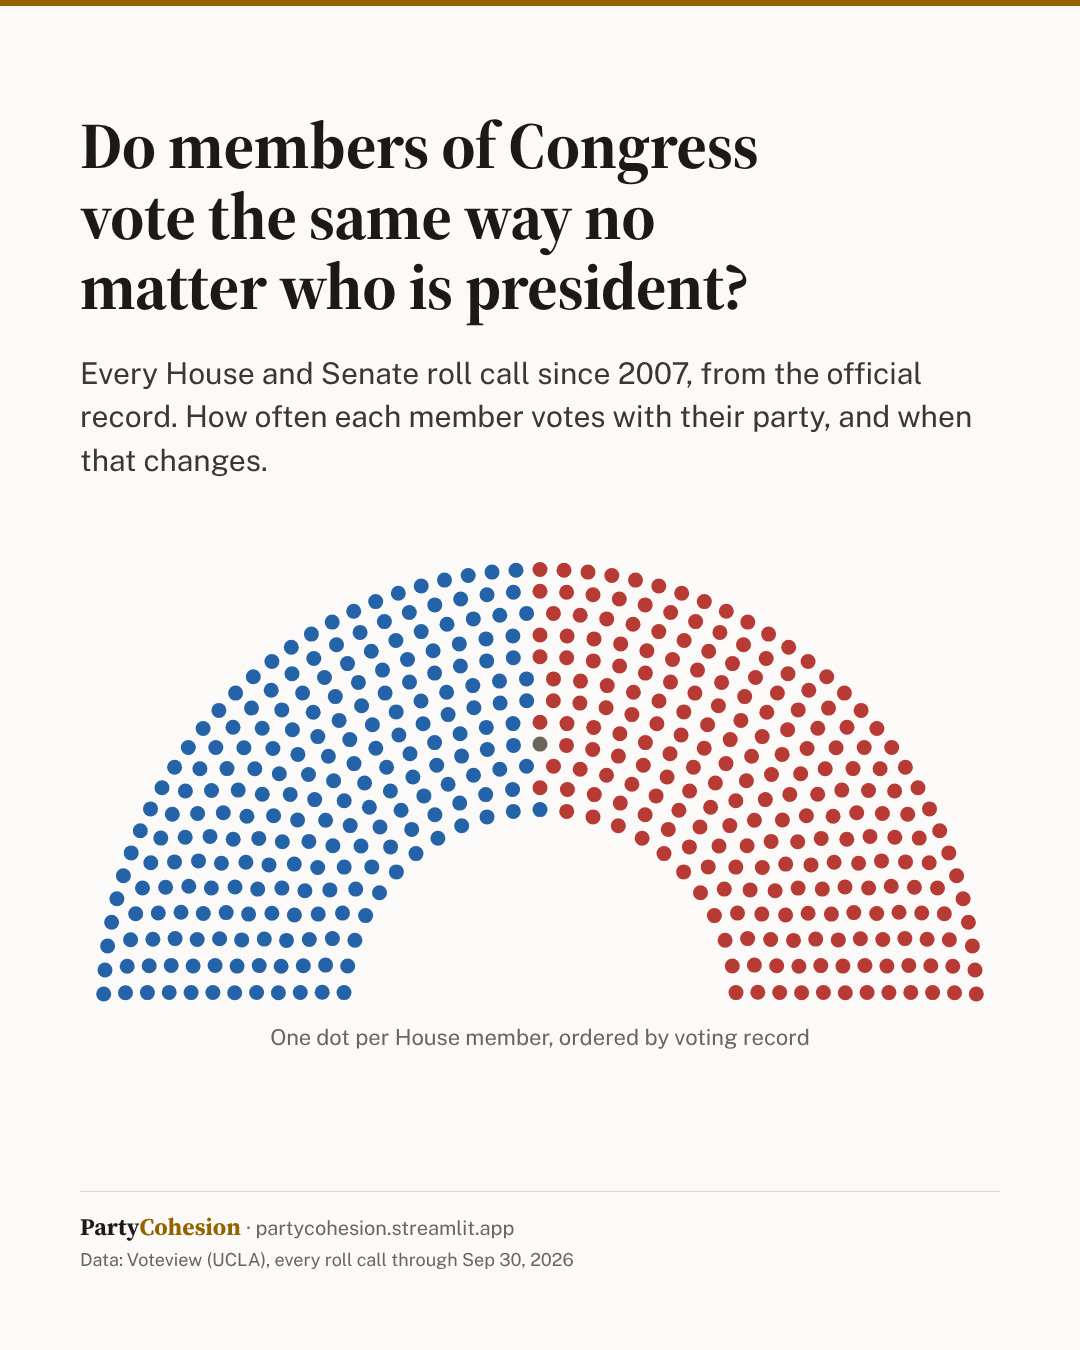
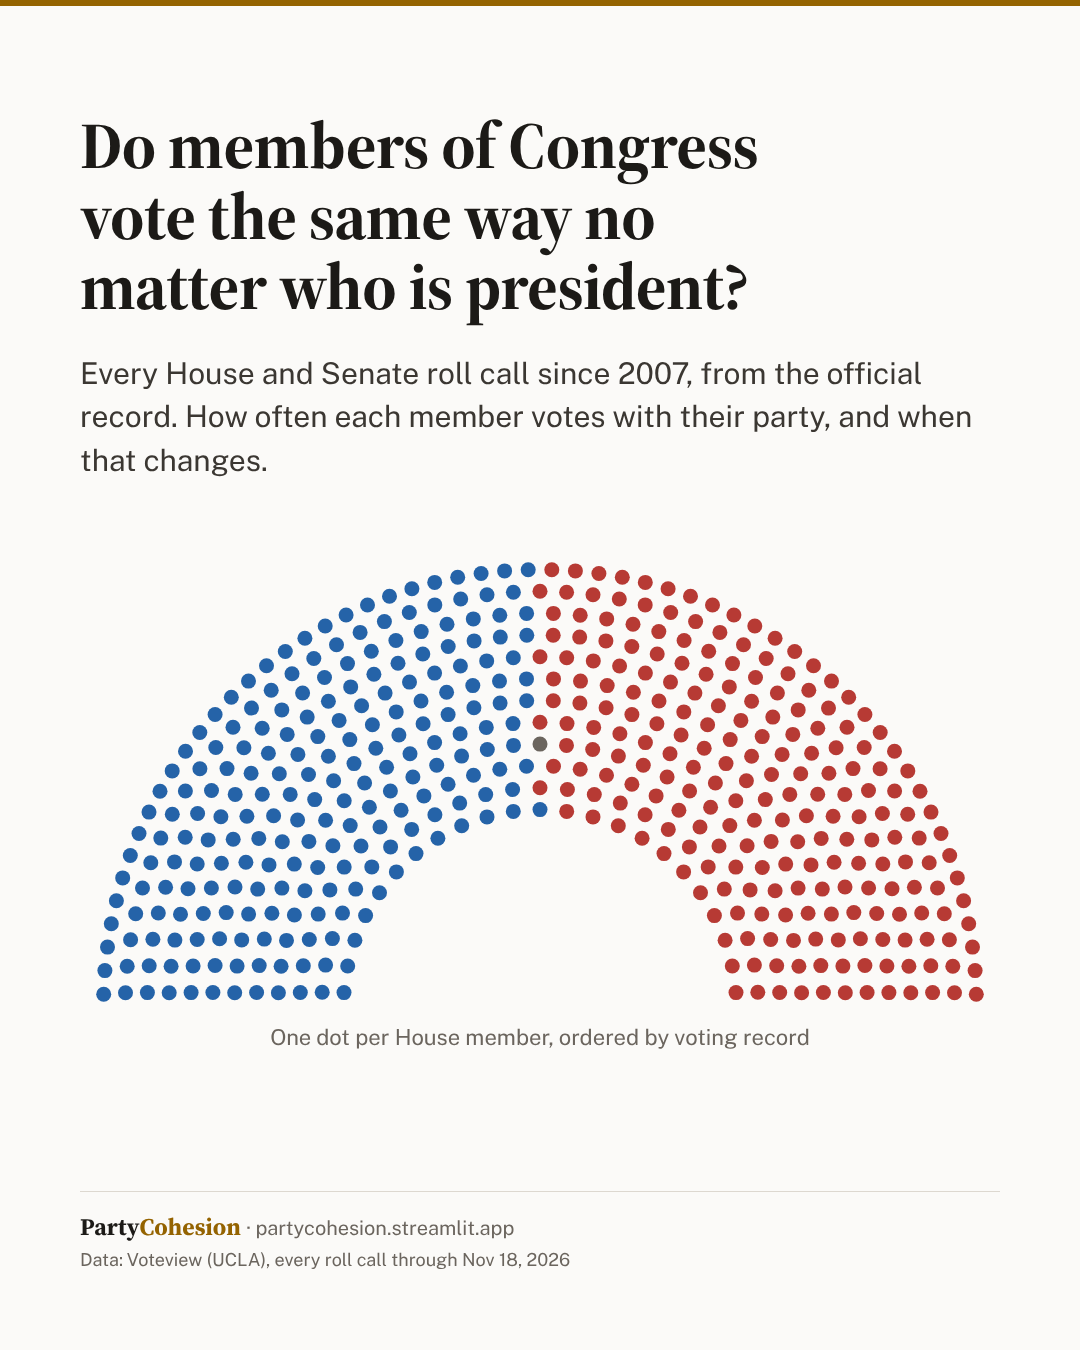
Fresh share cards, visible expander outlines, roomier phone charts
- Share card images rebuilt from the current data (through Nov 18, 2026); the share pages already had the new
  styles.
- Expanders get the control gray outline (3.2:1 light, 3.9:1 dark, was 1.3:1 and 1.5:1) and 10px corners.
- Phone charts: side margins of 10px unless a chart sets its own (Plotly's default 80px left a third of the
  screen), titles at 15px wrapped at 32 characters so they fit at 320px, Position Flips bar labels level and hidden
  when a segment is too thin, and the party unity line leaves a gap for a Congress with no scored votes.

diff --git a/static/pc.css b/static/pc.css
@@ -53,6 +53,9 @@
 .pc-table th { color: var(--pc-muted); font-size: 0.85rem; font-weight: 600; text-align: left; padding: 12px 16px; }
 .pc-table td { padding: 12px 16px; border-top: 1px solid var(--pc-border); }
 .pc-muted, .pc-table td.pc-muted { color: var(--pc-muted); }
+/* Expanders: the control gray outline (3:1 or better) instead of the faint divider color, on the 10px card corner */
+.stApp [data-testid="stExpander"] details { border-color: var(--pc-control); border-radius: 10px; }
+.stApp [data-testid="stExpander"] summary { border-radius: 10px; }
 .pc-notice { color: var(--pc-body); padding: 0;
              margin: 0.25rem 0 1rem; max-width: 72ch; }
 /* How they voted lately: a short list with the vote word in a chip. Yea is filled, Nay is outlined, a missed vote is

diff --git a/chart_utils.py b/chart_utils.py
@@ -89,7 +89,7 @@ def _recolor(obj) -> None:
             _recolor(child)
 
 
-TITLE_CHARS = 34  # about what fits across a 320px-wide phone chart at the title size
+TITLE_CHARS = 32  # about what fits across a 320px-wide phone chart at the phone title size (15px)
 
 
 def wrap_title(title: str, width: int = TITLE_CHARS) -> tuple[str, int]:
@@ -112,7 +112,13 @@ def show_chart(fig, title: str, filename: str, key: str | None = None, on_select
                 _recolor(item)
     _label_ink(fig)
     from theme import narrow
-    text, lines = wrap_title(title, TITLE_CHARS if narrow() else 90)
+    phone = narrow()
+    text, lines = wrap_title(title, TITLE_CHARS if phone else 90)
+    if phone:
+        # Plotly's default 80px side margins leave a phone chart a third of the screen; the axes size themselves
+        # (automargin), so a chart that didn't set its own sides gets 10px
+        m = fig.layout.margin
+        fig.update_layout(margin=dict(l=10 if m.l is None else m.l, r=10 if m.r is None else m.r))
     top = max(fig.layout.margin.t or 0, 80) + 21 * (lines - 1)
     # Legends sit in a row of their own above the plot (beside it squeezes phone-width charts), unless a page
     # already placed one below the plot.
@@ -128,7 +134,7 @@ def show_chart(fig, title: str, filename: str, key: str | None = None, on_select
                                       y=1 + (24 / plot_h if facet_labels else 0), entrywidth=0))
     fig.update_layout(
         title=dict(text=text, x=0.01, xanchor="left", yref="container", y=1, yanchor="top", pad=dict(t=14),
-                   font=dict(size=16, color=t["text"])),
+                   font=dict(size=15 if phone else 16, color=t["text"])),
         paper_bgcolor=t["bg"],
         plot_bgcolor=t["bg"],
         font=dict(color=t["text"], family=FONT),

diff --git a/views/7_Position_Flips.py b/views/7_Position_Flips.py
@@ -162,8 +162,11 @@ else:
                  category_orders={"label": LABEL_ORDER, "party": ["Democrat", "Republican"]},
                  color_discrete_map=LABEL_COLORS, labels={"party": "", "Share": "Share of members (%)", "label": ""},
                  hover_data={"Members": True, "Share": ":.0f"})
+    # Labels stay level and inside their segment; a segment too thin for one hides it (the hover still has it)
+    fig.update_traces(textangle=0, textposition="inside", insidetextanchor="middle")
     fig.update_layout(height=280, barmode="stack", xaxis=dict(range=[0, 100], title=None, ticksuffix="%"),
-                      legend=dict(orientation="h", y=-0.22, x=0), margin=dict(b=70))
+                      legend=dict(orientation="h", y=-0.22, x=0), margin=dict(b=70),
+                      uniformtext=dict(minsize=11, mode="hide"))
     show_chart(fig, f"Position consistency, {category.lower()}", f"position_flips_{category.lower().replace(' ', '_')}")
 
     st.caption("Read this chart as a summary of members, not a verdict on either party: votes are not spread evenly "

diff --git a/views/2_Member_Explorer.py b/views/2_Member_Explorer.py
@@ -625,6 +625,11 @@ if pick:
         avg = (df[df["caucus"] == compare_party].groupby(["congress", "chamber"])["party_unity_pct"].mean()
                .reset_index().rename(columns={"party_unity_pct": "party_avg"}))
         hist = scored.merge(avg, on=["congress", "chamber"], how="left")
+        # A Congress with no scored votes (a delegate in a Congress whose rules shut them out) is a gap in the line,
+        # not a straight segment that reads as a trend across it
+        hist = (hist.drop_duplicates("congress", keep="last").set_index("congress")
+                .reindex(range(int(hist["congress"].min()), int(hist["congress"].max()) + 1)).rename_axis("congress")
+                .reset_index())
         fig_h = px.line(hist, x="congress", y=["party_unity_pct", "party_avg"], markers=True,
                         labels={"congress": "Congress", "value": "Party Unity %", "variable": ""},
                         color_discrete_sequence=[ACCENT, MUTED])

diff --git a/ui.py b/ui.py
@@ -89,6 +89,9 @@ CSS = f"""
 .pc-table th {{ color: var(--pc-muted); font-size: 0.85rem; font-weight: 600; text-align: left; padding: 12px 16px; }}
 .pc-table td {{ padding: 12px 16px; border-top: 1px solid var(--pc-border); }}
 .pc-muted, .pc-table td.pc-muted {{ color: var(--pc-muted); }}
+/* Expanders: the control gray outline (3:1 or better) instead of the faint divider color, on the 10px card corner */
+.stApp [data-testid="stExpander"] details {{ border-color: var(--pc-control); border-radius: 10px; }}
+.stApp [data-testid="stExpander"] summary {{ border-radius: 10px; }}
 .pc-notice {{ color: var(--pc-body); padding: 0;
              margin: 0.25rem 0 1rem; max-width: 72ch; }}
 /* How they voted lately: a short list with the vote word in a chip. Yea is filled, Nay is outlined, a missed vote is
